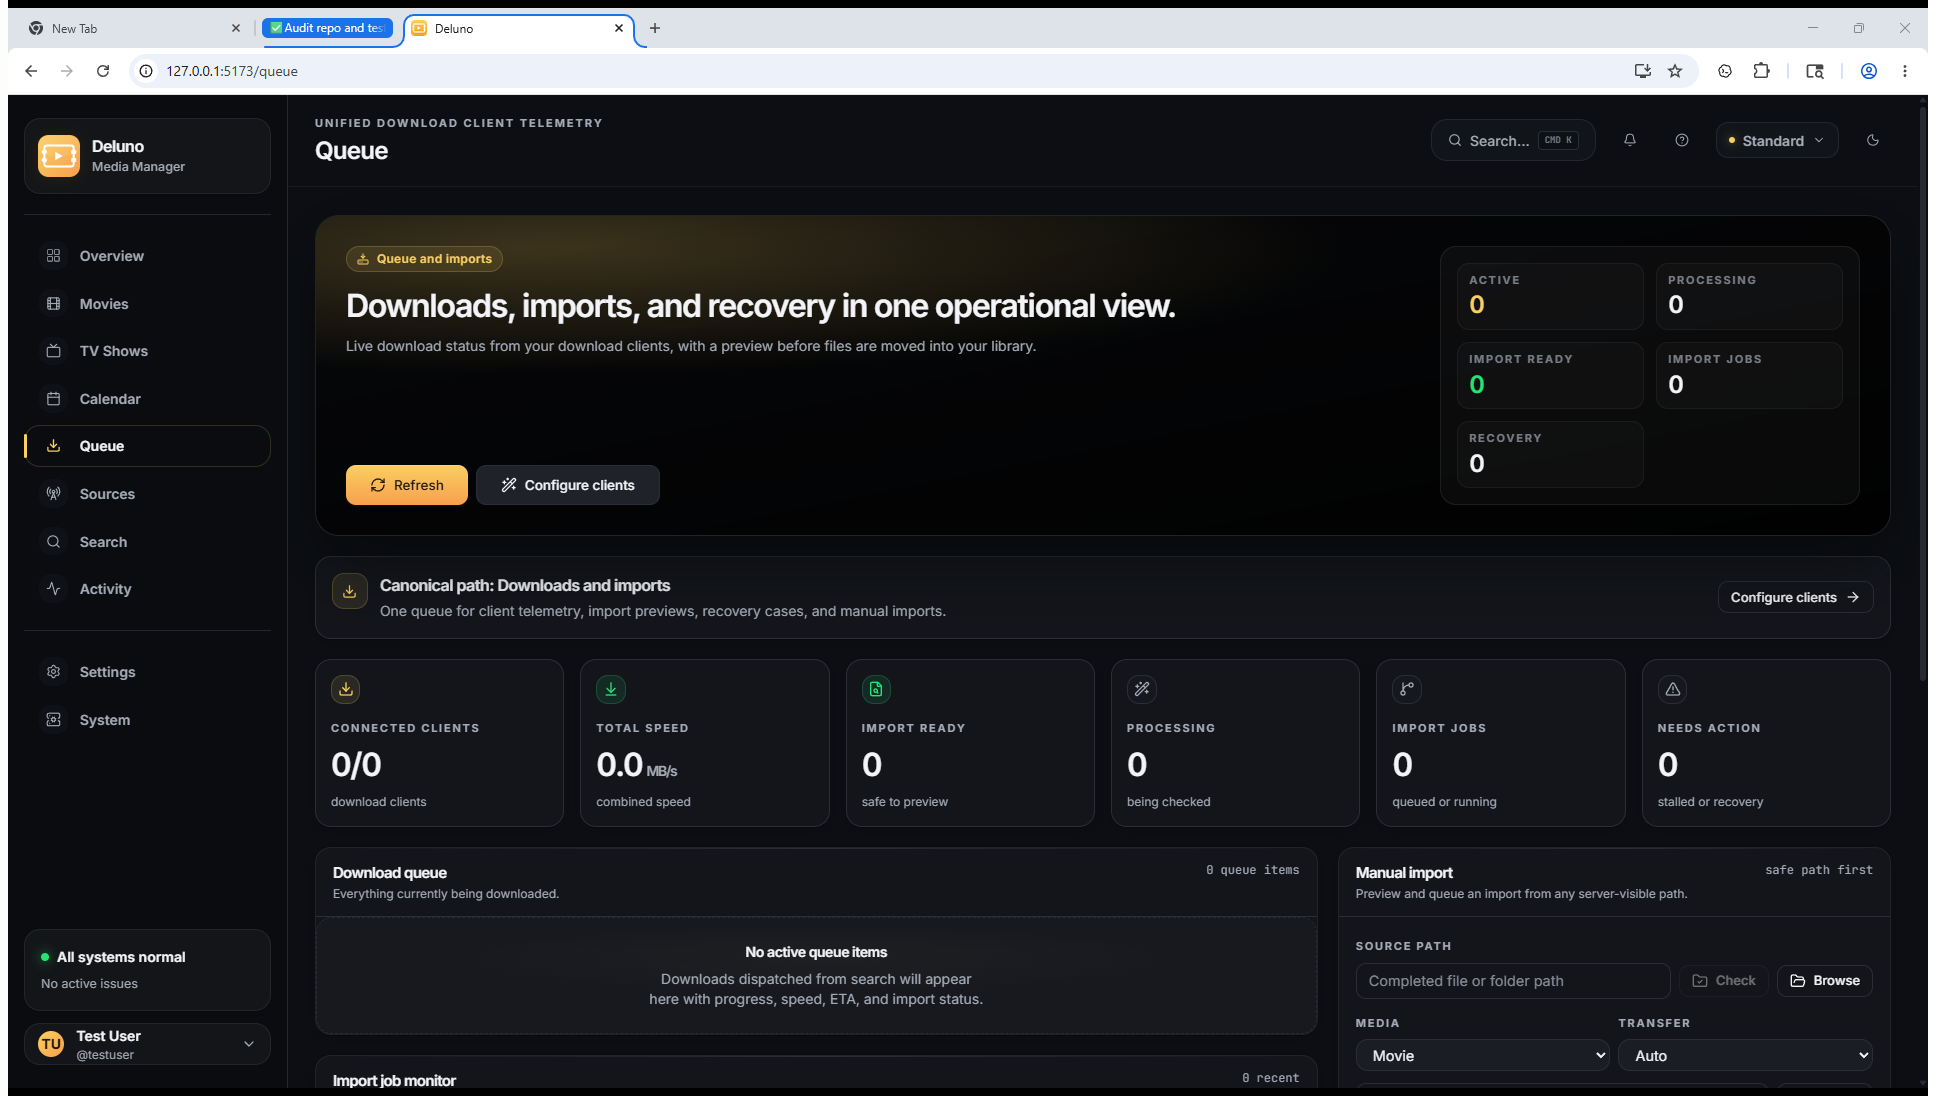
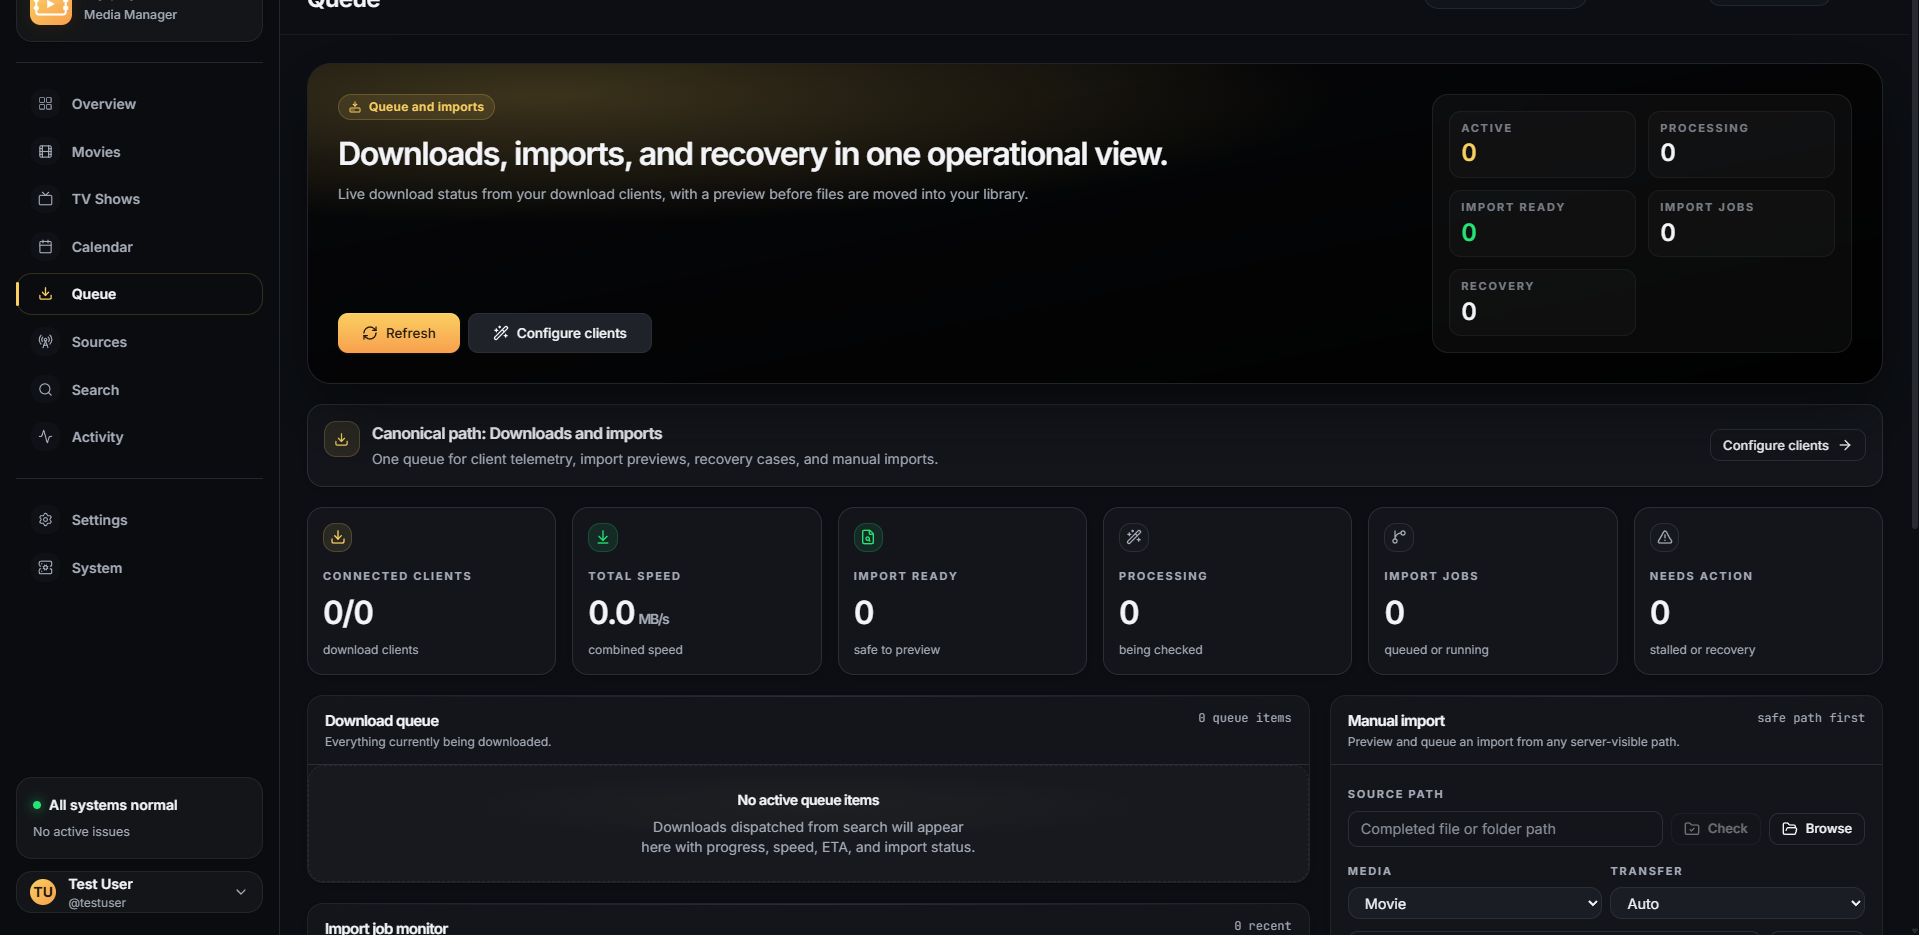
Fix screenshots and README tone
Crop all 7 screenshots to remove browser chrome — pure app viewport
only. Rewrite README opening with personal/vibe-coded tone to match
intent.

diff --git a/README.md b/README.md
@@ -1,6 +1,8 @@
 # Deluno
 
-Personal self-hosted media manager for movies and TV. Built because I wanted something that works the way I think about my library.
+Vibe coded personal media manager for movies and TV. Built it for myself because I wanted something that works the way I think about my library — separate engines for movies and shows, real quality logic, and full visibility into what's actually happening.
+
+Not trying to be Radarr/Sonarr. Just a thing that works for me, shipped because someone else might want it too.
 
 ---
 
@@ -30,7 +32,7 @@ Personal self-hosted media manager for movies and TV. Built because I wanted som
 - Automated missing and upgrade search cycles
 - Live download telemetry on the dashboard
 - Full operational audit trail in Activity
-- Guided first-run setup to go from zero to downloading in minutes
+- Guided first-run setup to get from zero to downloading in minutes
 
 ## Quick start
 
